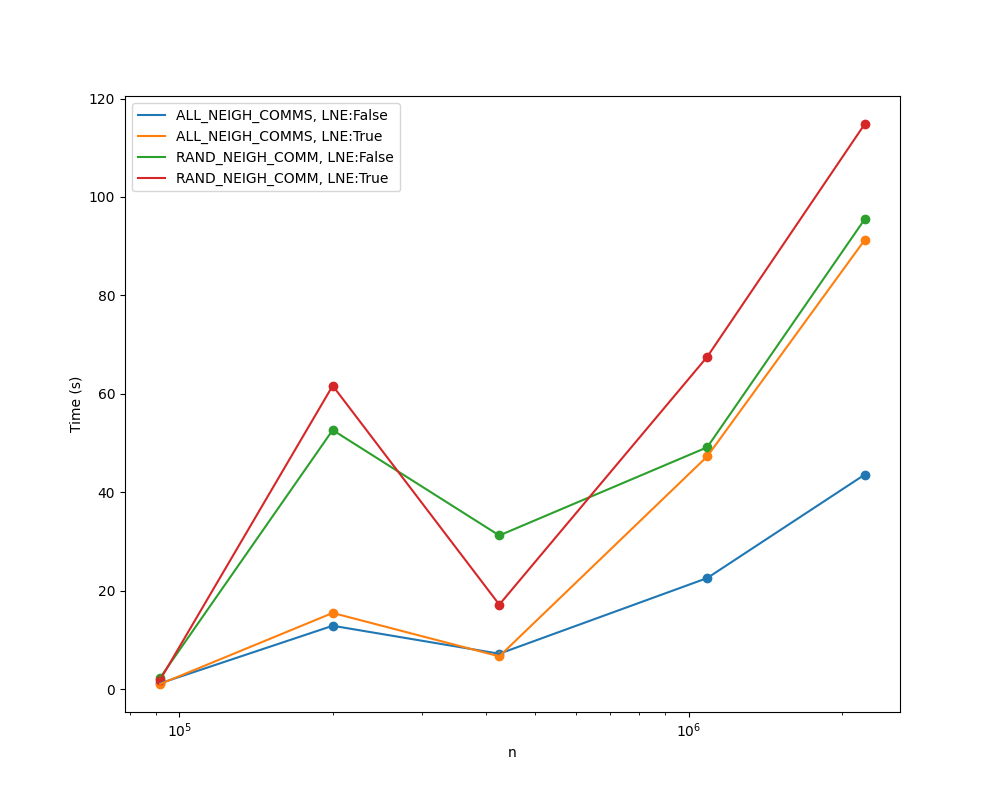
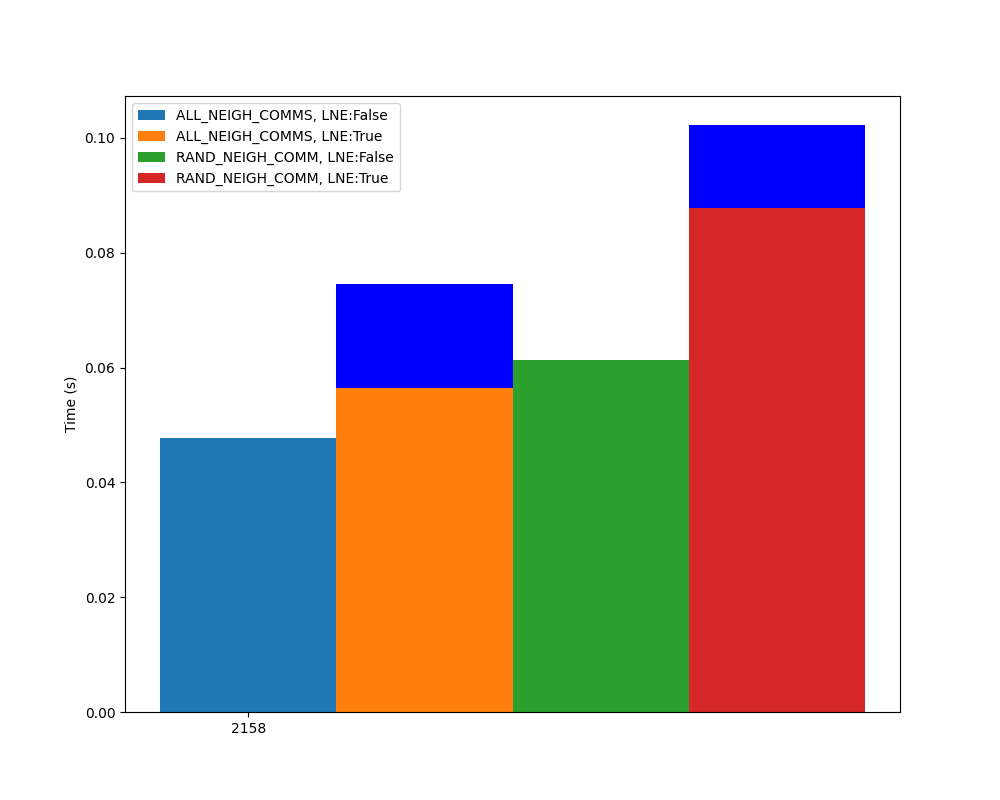
bars

diff --git a/SNACSproject.py b/SNACSproject.py
@@ -16,14 +16,16 @@ import louvain
 import igraph as ig
 import time 
 import matplotlib.pyplot as plt
+import numpy as np
 
 def readNetwork(filename, directed=True):
 	print("reading {}...".format(filename))
 	return ig.Graph.Read_Ncol(open(filename), names=False, weights="if_present", directed=directed)
 
 def leafAdd(graph, partition, leafNodes):
+	t_start = time.time()
 	if not leafNodes:
-		return partition
+		return partition, 0.0
 	n_comm = len(partition._membership)
 	for leaf in leafNodes:
 		partition._membership.insert(leaf, n_comm)
@@ -36,7 +38,9 @@ def leafAdd(graph, partition, leafNodes):
 		part.move_node(edge[0], partition._membership[edge[1]])
 	for edge in leafTargets:
 		part.move_node(edge[1], partition._membership[edge[0]])
-	return part
+	t_end = time.time()
+	part.renumber_communities()
+	return part, (t_end-t_start)
 
 def performExperiment(G, threshold, comm_select, leafExclude):
 	print("Full network size: ", G.vcount(), G.ecount())
@@ -46,14 +50,15 @@ def performExperiment(G, threshold, comm_select, leafExclude):
 		print("----- {} leafNodes found in the Network-----".format(len(leaves)))
 		t_start = time.time()
 		part = louvain.find_partition(subGraph, louvain.ModularityVertexPartition, threshold=threshold, comm_select=comm_select)
-		part = leafAdd(G, part, leaves)
+		part, leafTime = leafAdd(G, part, leaves)
 		t_end = time.time()
-		return part.quality(), (t_end-t_start), len(leaves)
+		print("Leafadd Duration: ", leafTime)
+		return part.quality(), (t_end-t_start), len(leaves), leafTime
 	else: 
 		t_start = time.time()
 		part = louvain.find_partition(G, louvain.ModularityVertexPartition, threshold=threshold, comm_select=comm_select)
 		t_end = time.time()
-	return part.quality(), (t_end-t_start), 0
+	return part.quality(), (t_end-t_start), 0, 0.0
 
 if __name__ == "__main__":
 	#Community Select methods:
@@ -64,6 +69,8 @@ if __name__ == "__main__":
 	method_dict = {1: "ALL_COMMS", 2: "ALL_NEIGH_COMMS", 3: "RAND_COMM", 4:"RAND_NEIGH_COMM"}
 	settings_list = [(0.0, 2, False), (0.0, 2, True), (0.0, 4, False), (0.0, 4, True)]#threshold, comm_select, leaf_node_exclusion
 	networks = [readNetwork("rec-amazon.tsv"), readNetwork("soc-academia.tsv"), readNetwork("rt-higgs.tsv"), readNetwork("inf-roadNet-PA.tsv"), readNetwork("inf-netherlands_osm.tsv", False)]#
+	n_settings = len(settings_list)
+	ind = np.arange(len(networks))
 	q_dict = {}
 	t_dict = {}
 	leaves_amount = []
@@ -76,37 +83,33 @@ if __name__ == "__main__":
 		for setting in settings_list:
 			print("________________________________________")
 			print("LeafNodeExclusion used?: ", setting[2])
-			q, t, nLeaves = performExperiment(network, setting[0], setting[1], setting[2])
+			q, t, nLeaves, leafTime = performExperiment(network, setting[0], setting[1], setting[2])
 			print(q,t)
 			if setting in q_dict:
-				q_dict[setting].append((network_size, q))
-				t_dict[setting].append((network_size, t))
+				q_dict[setting].append(q)
+				t_dict[setting].append((t, leafTime))
 			else:
-				q_dict[setting] = [(network_size, q)]
-				t_dict[setting] = [(network_size, t)]
+				q_dict[setting] = [q]
+				t_dict[setting] = [(t, leafTime)]
 		leaves_amount.append(nLeaves)
 	
 	print(q_dict)
 	print(t_dict)
 	print("Start plotting...")
 	f, ax = plt.subplots(figsize=(10,8))
-	for key, val in q_dict.items():#setting: [network_size, modularity]
-		x,y = zip(*val)
-		plt.plot(x,y)
-		plt.scatter(x,y)
-	plt.xlabel("n")
-	ax.set_xscale('log')
+	for ix, val in enumerate(q_dict.values()):#setting: [modularity]
+		plt.bar(ind + ix*0.1, val, width = 0.1, align="edge")
+	plt.xticks(ticks=range(len(network_sizes)), labels=network_sizes)
 	plt.ylabel("Q")
 	ax.legend(["{}, LNE:{}".format(method_dict[setting[1]],setting[2]) for setting in q_dict.keys()])
 	plt.savefig('modularityPlot.png')
 
 	f, ax = plt.subplots(figsize=(10,8))
-	for key, val in t_dict.items():#setting: [network_size, modularity]
-		x,y = zip(*val)
-		plt.plot(x,y)
-		plt.scatter(x,y)
-	plt.xlabel("n")
-	ax.set_xscale('log')
+	bars = []
+	for ix, val in enumerate(t_dict.values()):#setting: [modularity]
+		bars.append(plt.bar(ind + ix*0.1, [tup[0] for tup in val], width = 0.1))
+		plt.bar(ind + ix*0.1, [tup[1] for tup in val], width = 0.1, bottom=[tup[0] for tup in val], color='b')
+	plt.xticks(ticks=range(len(network_sizes)), labels=network_sizes)
 	plt.ylabel("Time (s)")
-	ax.legend(["{}, LNE:{}".format(method_dict[setting[1]],setting[2]) for setting in t_dict.keys()])
+	ax.legend(bars, ["{}, LNE:{}".format(method_dict[setting[1]],setting[2]) for setting in t_dict.keys()])
 	plt.savefig('timePlot.png')
